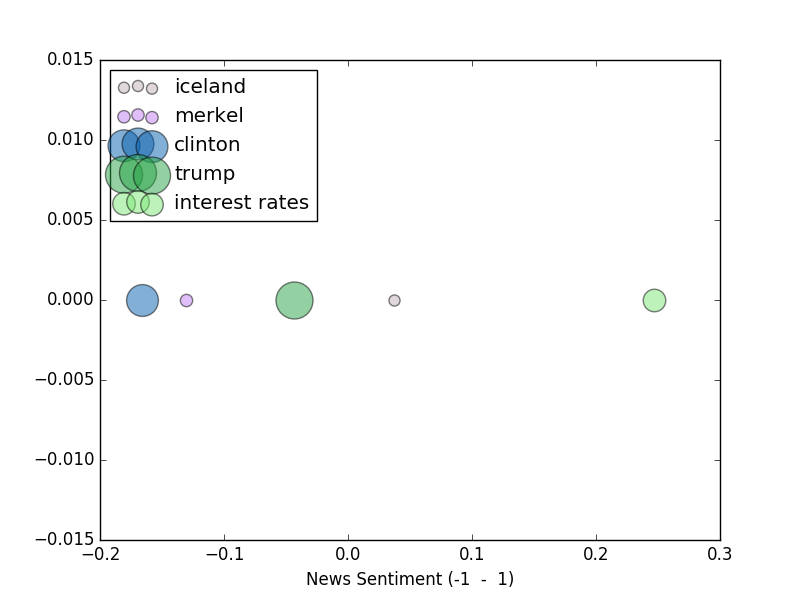
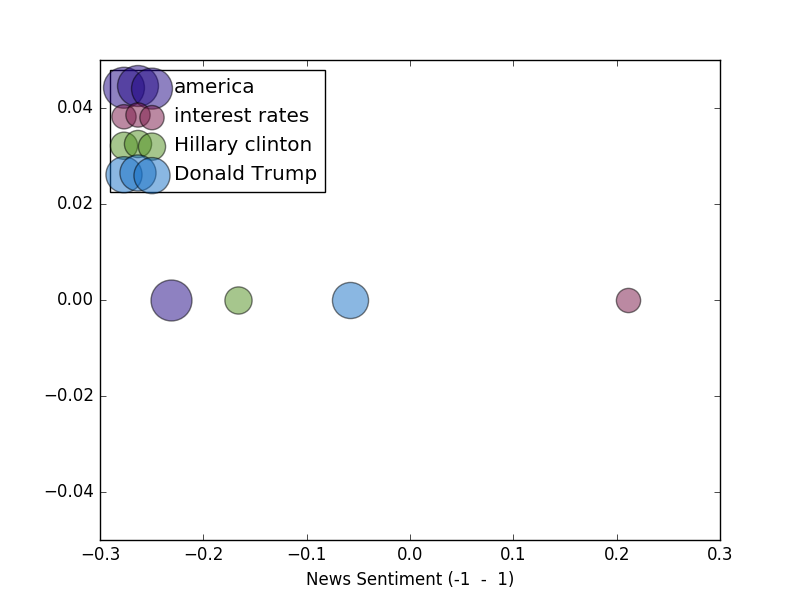
im so dead ggg

diff --git a/Guardian_API.py b/Guardian_API.py
@@ -1,5 +1,5 @@
 #!/usr/bin/env python
-
+from tkinter import *
 import json
 import nltk
 nltk.data.path.append("./nltk_data")
@@ -7,11 +7,11 @@ import urllib2
 import newssentiment
 from newssentiment import SentimentVader
 import twitterminingandsent as tm
-def Finale():
+def Finale(keywords,fromDate,toDate):
 	guardian_api = 'f82a10ba-1309-4ff7-ba94-9962249ea9e0'
-	keywords = ['clinton','trump','merkel','interest%20rates','iceland']
-	fromDate = '2016-09-01'
-	toDate = '2016-10-01'
+	#keywords = ['clinton','trump','merkel','interest%20rates','iceland']
+	#fromDate = '2016-09-01'
+	#toDate = '2016-10-01'
 	X={}
 	Sent={}
 	for i in keywords:
@@ -86,8 +86,47 @@ def Finale():
 		t1.append(d)
 	tempe= json.dumps(Sent)
 	return t1,Sent
-print(Finale())
-teee,ss=Finale()
+
+fields = 'Keyword 1', 'Keyword 2', 'Keyword 3', 'Keyword 4', 'Starting date [YYYY-MM-DD]','End date [YYYY-MM-DD]'
+l1=[]
+Starting=""
+Ending=""
+def fetch(entries):
+   for entry in entries:
+      field = entry[0]
+      text  = entry[1].get()
+      print(field[0])
+      l1.append(text.replace(" ","%20"))
+      print('%s: "%s"' % (field, text))
+
+def makeform(root, fields):
+   entries = []
+   for field in fields:
+      row = Frame(root)
+      lab = Label(row, width=30, text=field, anchor='w')
+      ent = Entry(row)
+      row.pack(side=TOP, fill=X, padx=5, pady=5)
+      lab.pack(side=LEFT)
+      ent.pack(side=RIGHT, expand=YES, fill=X)
+      entries.append((field, ent))
+   return entries
+
+def GOOO():
+	root = Tk()
+	ents = makeform(root, fields)
+	root.bind('<Return>', (lambda event, e=ents: fetch(e)))
+	b1 = Button(root, text='Show', command=(lambda e=ents: fetch(e)))
+	b1.pack(side=LEFT, padx=5, pady=5)
+	b2 = Button(root, text='Next', command=root.quit)
+	b2.pack(side=LEFT, padx=5, pady=5)
+	root.mainloop()
+GOOO()
+Starting=l1[4]
+Ending=l1[5]
+l1=l1[:4]
+
+teee,ss=Finale(l1,Starting,Ending)
+print(teee)
 import matplotlib.pyplot as plt
 r=[]
 x=[]
@@ -112,23 +151,29 @@ plt.legend(loc=2)
 
 print("GOO")
 plt.savefig('news.png')
-plt.show()
+plt.clf()
 r=[]
 x=[]
 lab=[]
+import matplotlib.pyplot as plt1
 for i in teee:
 	x.append(i["twitter"])
 	r.append(i["occurances"]/1.0)
 	lab.append(i["name"])
-plt.xlabel('Twitter Sentiment (-1  -  1)')
+plt1.xlabel('Twitter Sentiment (-1  -  1)')
 
 for i in range(0,len(x)):
 	if x[i]<0.0:
-		plt.scatter(x[i],0 , r[i]/1.0, c=random.rand(3,1),label=lab[i].replace("%20"," "),alpha=0.5)
+		plt1.scatter(x[i],0 , r[i]/1.0, c=random.rand(3,1),label=lab[i].replace("%20"," "),alpha=0.5)
 
 	else:
-		plt.scatter(x[i],0, r[i]/1.0, c=random.rand(3,1),label=lab[i].replace("%20"," "),alpha=0.5)
-plt.legend(loc=2)
-plt.savefig('twitter.png')
-plt.show()
-#plt.show()
+		plt1.scatter(x[i],0, r[i]/1.0, c=random.rand(3,1),label=lab[i].replace("%20"," "),alpha=0.5)
+plt1.legend(loc=2)
+print("SECCC")
+plt1.savefig('twitter.png')
+##plt.show()
+from PIL import Image
+image=Image.open('news.png')
+image2=Image.open('twitter.png')
+image.show("NEWS")
+image2.show("TWITTER")

diff --git a/yo.py b/yo.py
@@ -1,0 +1,37 @@
+from tkinter import *
+from tkinter import Tk
+fields = 'Keyword 1', 'Keyword 2', 'Keyword 3', 'Keyword 4', 'Starting date [YYYY-MM-DD]','End date [YYYY-MM-DD]'
+l1=[]
+Starting=""
+Ending=""
+def fetch(entries):
+   for entry in entries:
+      field = entry[0]
+      text  = entry[1].get()
+      print(field[0])
+      l1.append(text.replace(" ","%20"))
+      print('%s: "%s"' % (field, text))
+
+def makeform(root, fields):
+   entries = []
+   for field in fields:
+      row = Frame(root)
+      lab = Label(row, width=30, text=field, anchor='w')
+      ent = Entry(row)
+      row.pack(side=TOP, fill=X, padx=5, pady=5)
+      lab.pack(side=LEFT)
+      ent.pack(side=RIGHT, expand=YES, fill=X)
+      entries.append((field, ent))
+   return entries
+
+if __name__ == '__main__':
+	root = Tk()
+	ents = makeform(root, fields)
+	root.bind('<Return>', (lambda event, e=ents: fetch(e)))
+	b1 = Button(root, text='Show', command=(lambda e=ents: fetch(e)))
+	b1.pack(side=LEFT, padx=5, pady=5)
+	b2 = Button(root, text='Quit', command=root.quit)
+	b2.pack(side=LEFT, padx=5, pady=5)
+	root.mainloop()
+
+print(l1)
